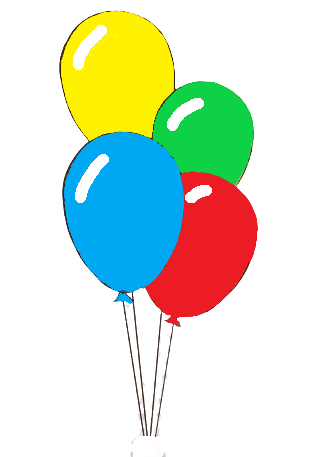
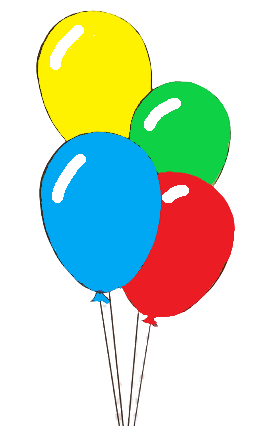
Update css
update css

Changed region(s): [[0.1147, 0.0, 0.8602, 1.0], [0.4014, 0.0305, 0.5161, 0.0915], [0.3441, 0.0, 0.4014, 0.0305]]

diff --git a/css/styles.css b/css/styles.css
@@ -19,8 +19,8 @@ body{
     top:50px;
 }
 .fist{
-    bottom:-9%;
-    left: 38%;
+    bottom:-13%;
+    left: 36%;
     position: absolute;
 }
 #fist{
@@ -35,7 +35,9 @@ body{
     background-color:transparent;
 }
 .baloons img{
-    width:330px;
+    position: relative;
+    left:10px;
+    width:290px;
 }
 .poo img{
     bottom:240%;
@@ -75,7 +77,7 @@ canvas{
     width:400px;
     height: 510px;
     display:flex;
-    border-radius: 14px;
+    border-radius: 20px;
     box-shadow: 4px 4px 5px #76420e;
     flex-direction: column;
 }
@@ -84,8 +86,8 @@ canvas{
     display:flex;
     width:400px;
     height:60px;
-    border-top-right-radius: 14px;
-    border-top-left-radius: 14px;
+    border-top-right-radius: 20px;
+    border-top-left-radius: 20px;
     background-color: rgb(248, 206, 35);
 }
 #triangle{
@@ -191,8 +193,8 @@ canvas{
     width:300px;
     height:450px;
     /* border-radius: 14px; */
-    border-bottom-right-radius: 14px;
-    border-bottom-left-radius: 14px;
+    border-bottom-right-radius: 20px;
+    border-bottom-left-radius: 20px;
     background-color: #b56413;  
     display:flex;
     flex-direction: column;
